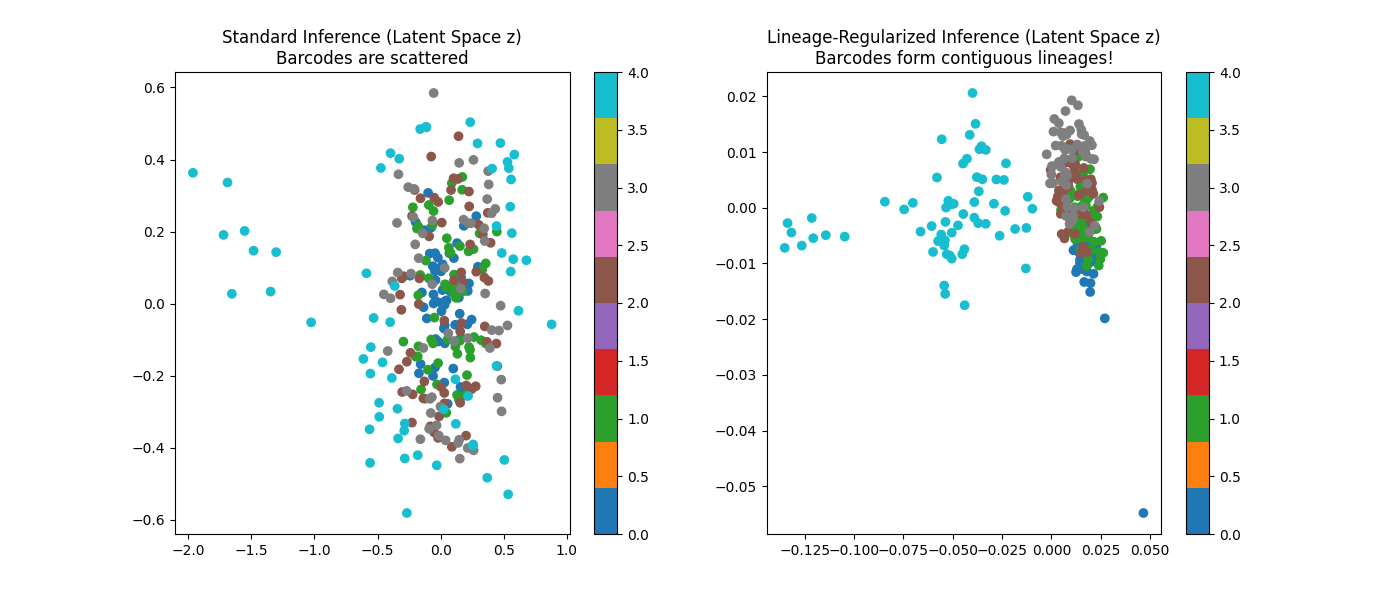
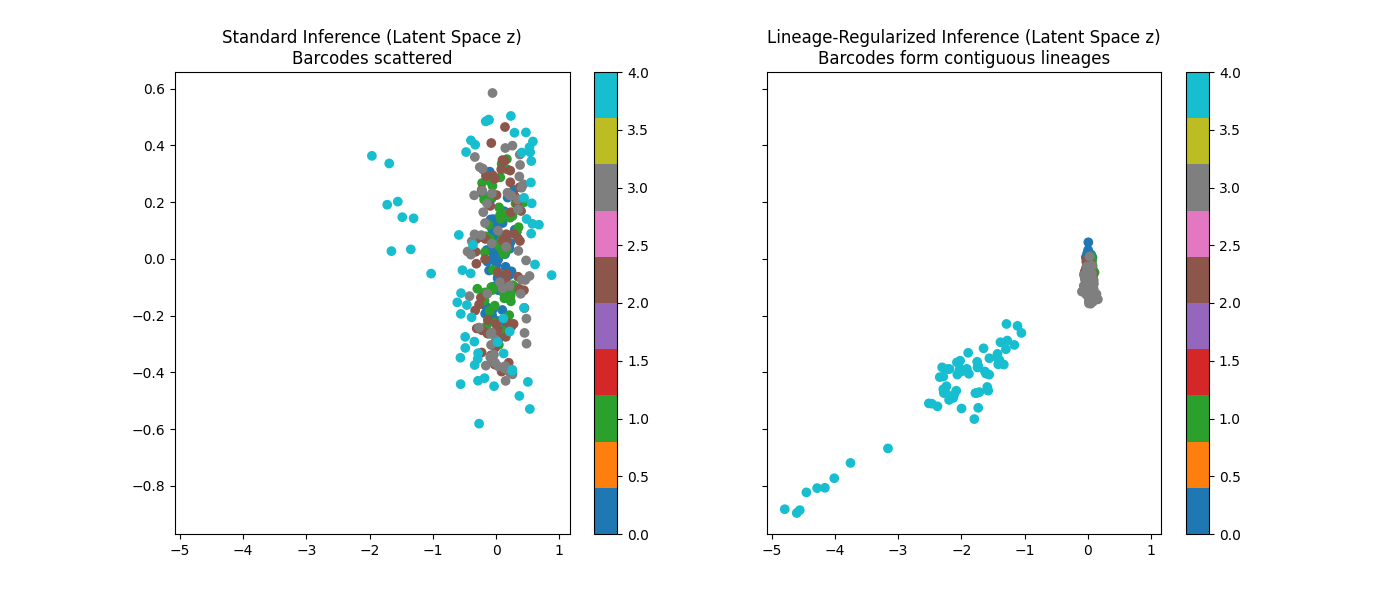
Fix lineage regularization scale collapse and update lineage plots

diff --git a/lineage_inference.py b/lineage_inference.py
@@ -53,6 +53,11 @@ class LineageVariationalEM(VariationalEM):
             pulled_layers = vmap_pull(mu_z, unique_barcodes)
             mu_z_reg = jnp.sum(pulled_layers, axis=0)
 
+            # Rescale to prevent scale collapse of the latent space and growing emission matrix C
+            std_orig = jnp.std(mu_z)
+            std_reg = jnp.std(mu_z_reg)
+            mu_z_reg = mu_z_reg * (std_orig / (std_reg + 1e-12))
+
             # --- Discrete E-Step (HMM Forward-Backward) ---
             expected_z_stats = (mu_z_reg, V_z, V_cross)
             gamma, xi = self.e_step_discrete(expected_z_stats)
@@ -84,9 +89,9 @@ if __name__ == "__main__":
 
     pca = PCA(n_components=2)
     z_pca_std = pca.fit_transform(mu_std)
-    z_pca_lin = pca.fit_transform(mu_lin)
+    z_pca_lin = pca.transform(mu_lin)  # Project regularized data using the same PCA mapping
 
-    fig, axes = plt.subplots(1, 2, figsize=(14, 6))
+    fig, axes = plt.subplots(1, 2, figsize=(14, 6), sharex=True, sharey=True)
 
     scatter1 = axes[0].scatter(z_pca_std[:, 0], z_pca_std[:, 1], c=barcodes, cmap='tab10')
     axes[0].set_title("Standard Inference (Latent Space z)\nBarcodes scattered")
